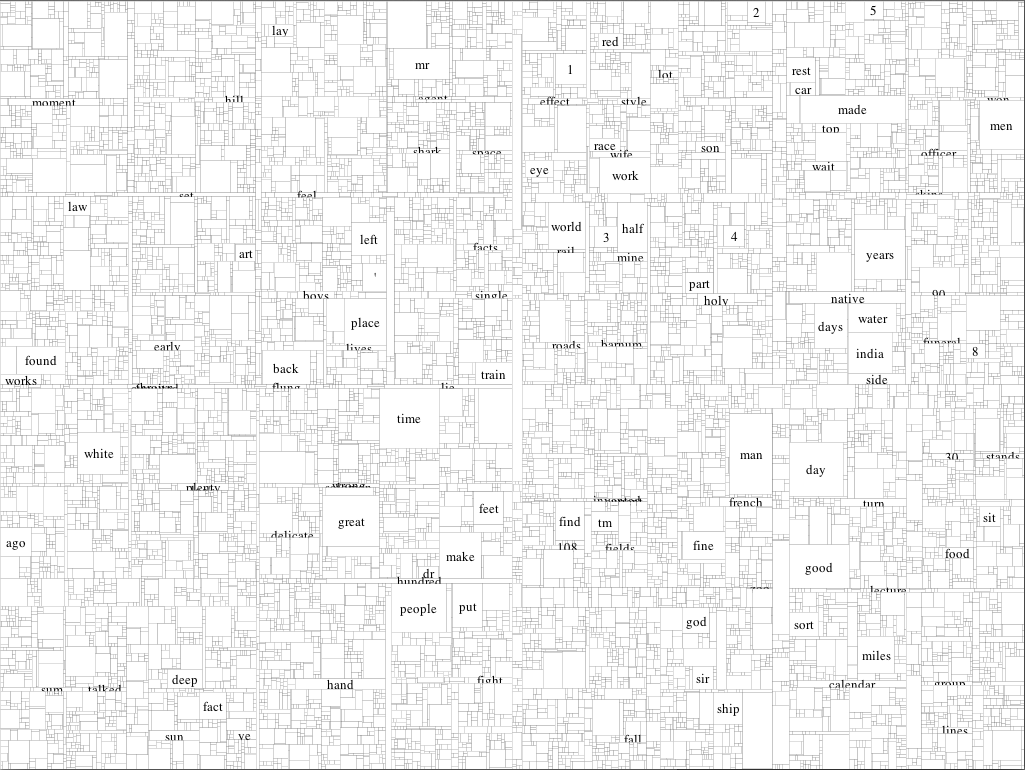
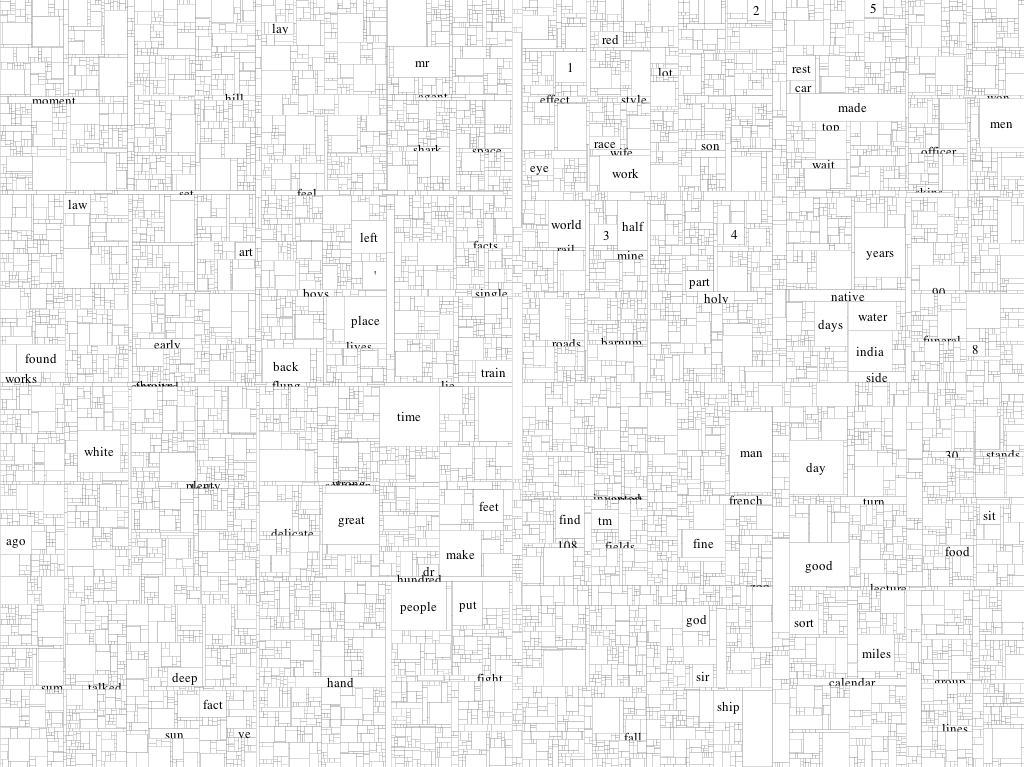
Fix ch7 screenshot. Add ch7 README.

diff --git a/src/vdquil/chapter7/README.md b/src/vdquil/chapter7/README.md
@@ -1,0 +1,13 @@
+#### Chapter 7: Trees, Hierarchies, and Recursion
+
+We use treemaps and recursion to visualize hierarchical data.
+
+This screenshot of figure 2 shows the word usage in Mark Twain's
+*Following the Equator* as a treemap, using Java interop. My version
+improves upon the book's by adding a stop list so that the
+visualization ignores common English words. I also note in comments
+how to play with other subsets of the data.
+
+![Screenshot of Chapter 7, figure 2](https://github.com/daveliepmann/vdquil/blob/master/src/vdquil/chapter7/twain-word-treemap.png?raw=true
+"Chapter 7, word usage in Twain's Following the Equator, displayed as
+a treemap")
